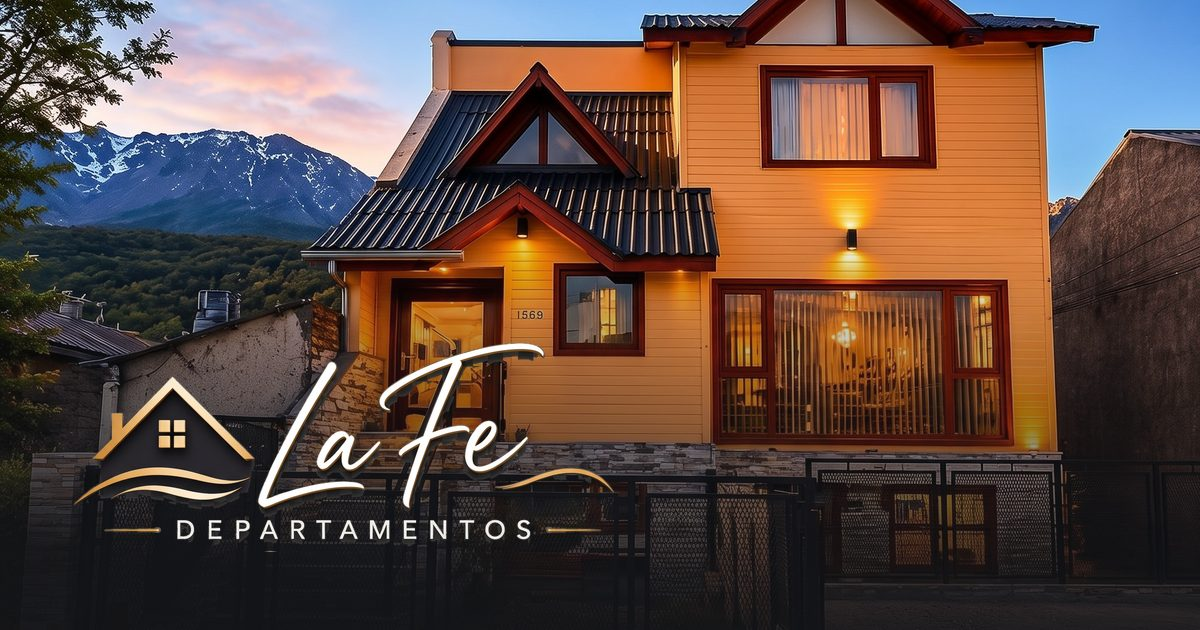
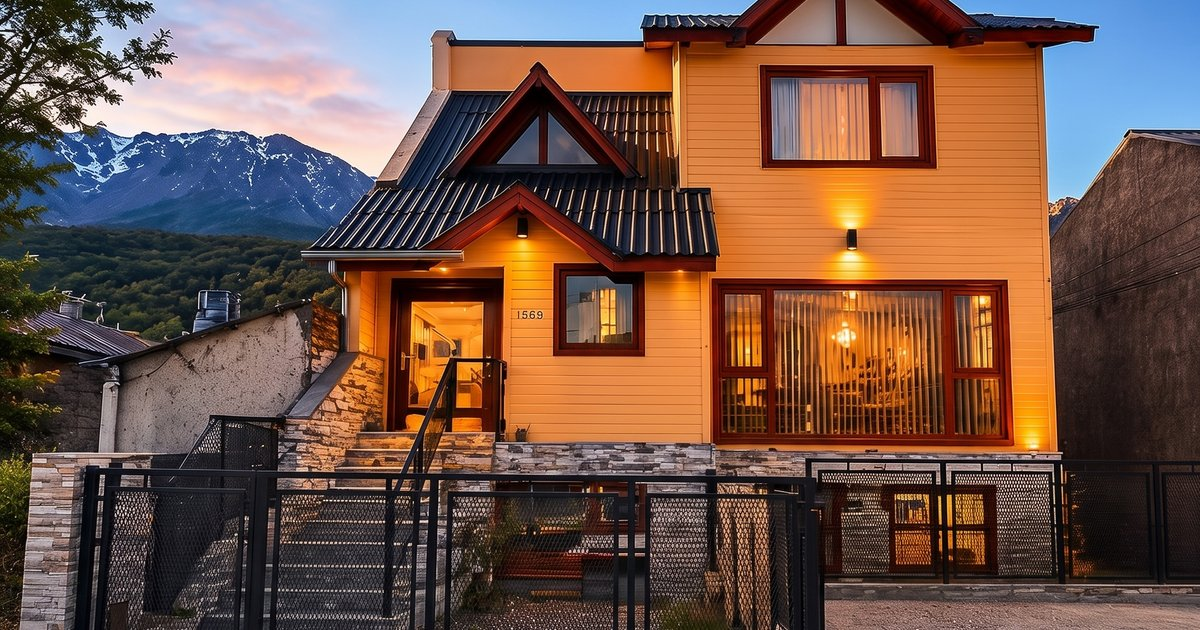
Nueva foto de portada y fin del pisado en la sincronizacion

diff --git a/src/lib/repositorio.ts b/src/lib/repositorio.ts
@@ -150,17 +150,44 @@ export const estadoDeLaBase = () => estadoRemoto;
 /** True mientras no llegó la primera respuesta de la base. */
 export const cargandoPrimeraVez = () => configurada && estadoRemoto === "cargando";
 
+/**
+ * Colecciones editadas acá que el servidor todavía no confirmó.
+ *
+ * Sin esto, una edición que tarda o falla en subir queda pisada por la próxima
+ * lectura del servidor: era el caso de la foto de portada, que se cambiaba y
+ * volvía sola a la anterior.
+ */
+const sinConfirmar = new Set<Clave>();
+
+export const hayCambiosSinSubir = () => sinConfirmar.size > 0;
+
 async function empujarAlServidor<T>(clave: Clave, valor: T) {
   if (!hayNavegador()) return;
   try {
     const remoto = await import("./supabase/remoto");
     if (!remoto.hayBaseDeDatos) return;
+
+    sinConfirmar.add(clave);
     const ok = await remoto.empujar(clave, valor);
-    if (!ok) estadoRemoto = "error";
+
+    if (ok) {
+      sinConfirmar.delete(clave);
+      if (estadoRemoto === "error" && !sinConfirmar.size) estadoRemoto = "listo";
+    } else {
+      estadoRemoto = "error";
+    }
     avisar();
   } catch {
     estadoRemoto = "error";
+    avisar();
   }
+}
+
+/** Reintenta lo que quedó sin subir, con lo último que haya en memoria. */
+async function reintentarPendientes() {
+  if (!sinConfirmar.size) return;
+  const pendientes = [...sinConfirmar];
+  await Promise.all(pendientes.map((clave) => empujarAlServidor(clave, cache.get(clave))));
 }
 
 /**
@@ -174,7 +201,10 @@ export async function escucharServidor() {
     const remoto = await import("./supabase/remoto");
     if (!remoto.hayBaseDeDatos) return () => {};
 
-    const refrescar = () => void sincronizarConLaBase({ silencioso: true });
+    const refrescar = () => {
+      void reintentarPendientes();
+      void sincronizarConLaBase({ silencioso: true });
+    };
     const cortarCanal = remoto.escucharCambios(refrescar);
 
     /* Por si el tiempo real no está habilitado en la base o se corta la
@@ -222,10 +252,12 @@ export async function sincronizarConLaBase({ silencioso = false } = {}) {
     );
 
     /* Sólo se reemplaza lo que realmente cambió: si la referencia no cambia,
-       React no vuelve a dibujar la pantalla. */
+       React no vuelve a dibujar la pantalla. Y nunca se pisa una colección que
+       este navegador editó y el servidor todavía no confirmó. */
     let cambio = false;
     resultados.forEach(([clave, valor]) => {
       if (valor === null || valor === undefined) return;
+      if (sinConfirmar.has(clave)) return;
       const antes = cache.get(clave);
       if (antes !== undefined && JSON.stringify(antes) === JSON.stringify(valor)) return;
       cache.set(clave, valor);

diff --git a/src/components/admin/zona-subida.tsx b/src/components/admin/zona-subida.tsx
@@ -1,6 +1,6 @@
 "use client";
 
-import { ImageUp, Loader2, X } from "lucide-react";
+import { ImageUp, Loader2, TriangleAlert, X } from "lucide-react";
 import { useId, useRef, useState, type DragEvent } from "react";
 import { Boton } from "@/components/ui/boton";
 import { guardarArchivo } from "@/lib/archivos";
@@ -33,26 +33,34 @@ export function ZonaSubida({
   const [encima, setEncima] = useState(false);
   const [trabajando, setTrabajando] = useState(0);
   const [errores, setErrores] = useState<string[]>([]);
+  const [avisos, setAvisos] = useState<string[]>([]);
 
   const procesar = async (archivos: FileList | null) => {
     if (!archivos?.length) return;
     const lista = Array.from(archivos).slice(0, multiple ? 20 : 1);
 
     setErrores([]);
+    setAvisos([]);
     setTrabajando(lista.length);
 
     const referencias: string[] = [];
     const fallos: string[] = [];
+    const alertas: string[] = [];
 
     for (const archivo of lista) {
       const r = await guardarArchivo(archivo);
-      if (r.ok) referencias.push(r.referencia);
-      else fallos.push(r.error);
+      if (r.ok) {
+        referencias.push(r.referencia);
+        if (r.aviso) alertas.push(r.aviso);
+      } else {
+        fallos.push(r.error);
+      }
       setTrabajando((n) => n - 1);
     }
 
     setTrabajando(0);
     setErrores(fallos);
+    setAvisos(alertas);
     if (referencias.length) onListo(referencias);
     if (entrada.current) entrada.current.value = "";
   };
@@ -135,6 +143,20 @@ export function ZonaSubida({
             >
               <X className="mt-0.5 size-3.5 shrink-0" strokeWidth={2.2} aria-hidden />
               {e}
+            </li>
+          ))}
+        </ul>
+      ) : null}
+
+      {avisos.length ? (
+        <ul className="mt-3 space-y-1.5">
+          {avisos.map((a) => (
+            <li
+              key={a}
+              className="flex items-start gap-2 rounded-sm bg-oro/10 px-3 py-2 text-[0.8rem] leading-relaxed text-oro-oscuro"
+            >
+              <TriangleAlert className="mt-0.5 size-3.5 shrink-0" strokeWidth={2} aria-hidden />
+              {a}
             </li>
           ))}
         </ul>

diff --git a/src/lib/archivos.ts b/src/lib/archivos.ts
@@ -121,7 +121,9 @@ async function comprimir(archivo: File): Promise<string> {
 
 /* ── API pública ──────────────────────────────────────────────────── */
 
-export type ResultadoSubida = { ok: true; referencia: string } | { ok: false; error: string };
+export type ResultadoSubida =
+  | { ok: true; referencia: string; aviso?: string }
+  | { ok: false; error: string };
 
 /** Convierte el resultado comprimido en un archivo listo para subir. */
 async function aBinario(datos: string) {
@@ -171,6 +173,7 @@ export async function guardarArchivo(archivo: File): Promise<ResultadoSubida> {
     const datos = await comprimir(archivo);
 
     /* Con base de datos, la imagen queda en el servidor y la ve todo el mundo. */
+    const { hayBaseDeDatos } = await import("./supabase/cliente");
     const publica = await subirAlServidor(datos, archivo.name);
     if (publica) return { ok: true, referencia: publica };
 
@@ -180,7 +183,16 @@ export async function guardarArchivo(archivo: File): Promise<ResultadoSubida> {
     transaccion(db, "readwrite").put(datos, id);
     cache[id] = datos;
     avisar();
-    return { ok: true, referencia: `local:${id}` };
+
+    return {
+      ok: true,
+      referencia: `local:${id}`,
+      /* Antes esto pasaba en silencio: la foto se veía bien acá y en el sitio
+         publicado seguía la anterior, porque nunca había llegado al servidor. */
+      aviso: hayBaseDeDatos
+        ? `“${archivo.name}” quedó guardada sólo en esta computadora: no se pudo subir al servidor. En el sitio publicado se va a seguir viendo la foto anterior.`
+        : undefined,
+    };
   } catch {
     return { ok: false, error: `No se pudo procesar “${archivo.name}”.` };
   }
